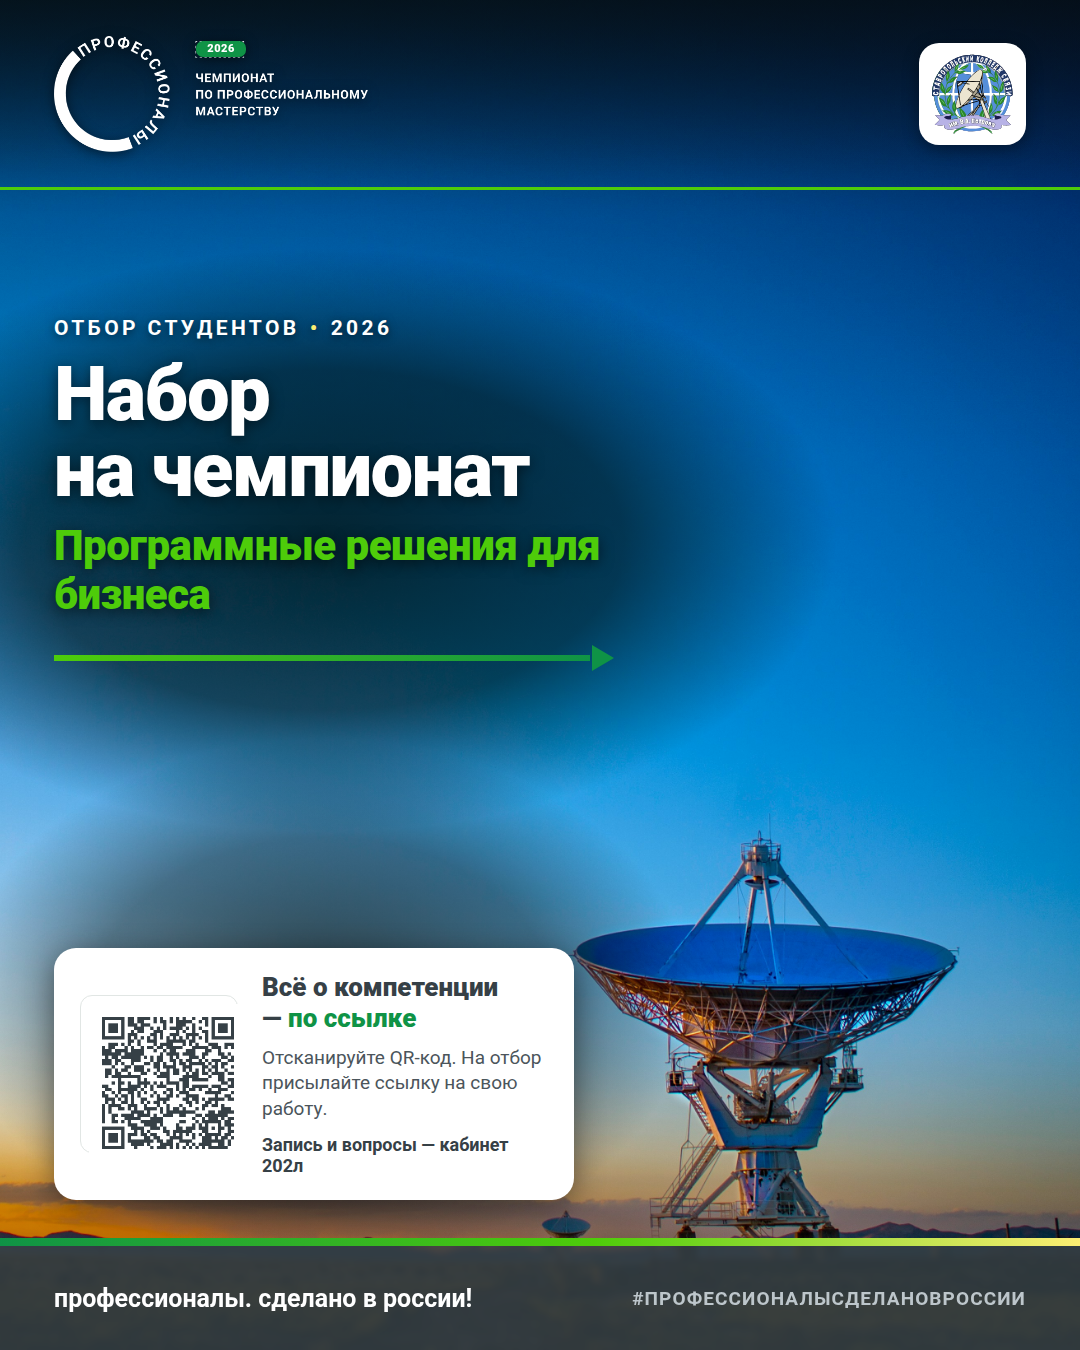
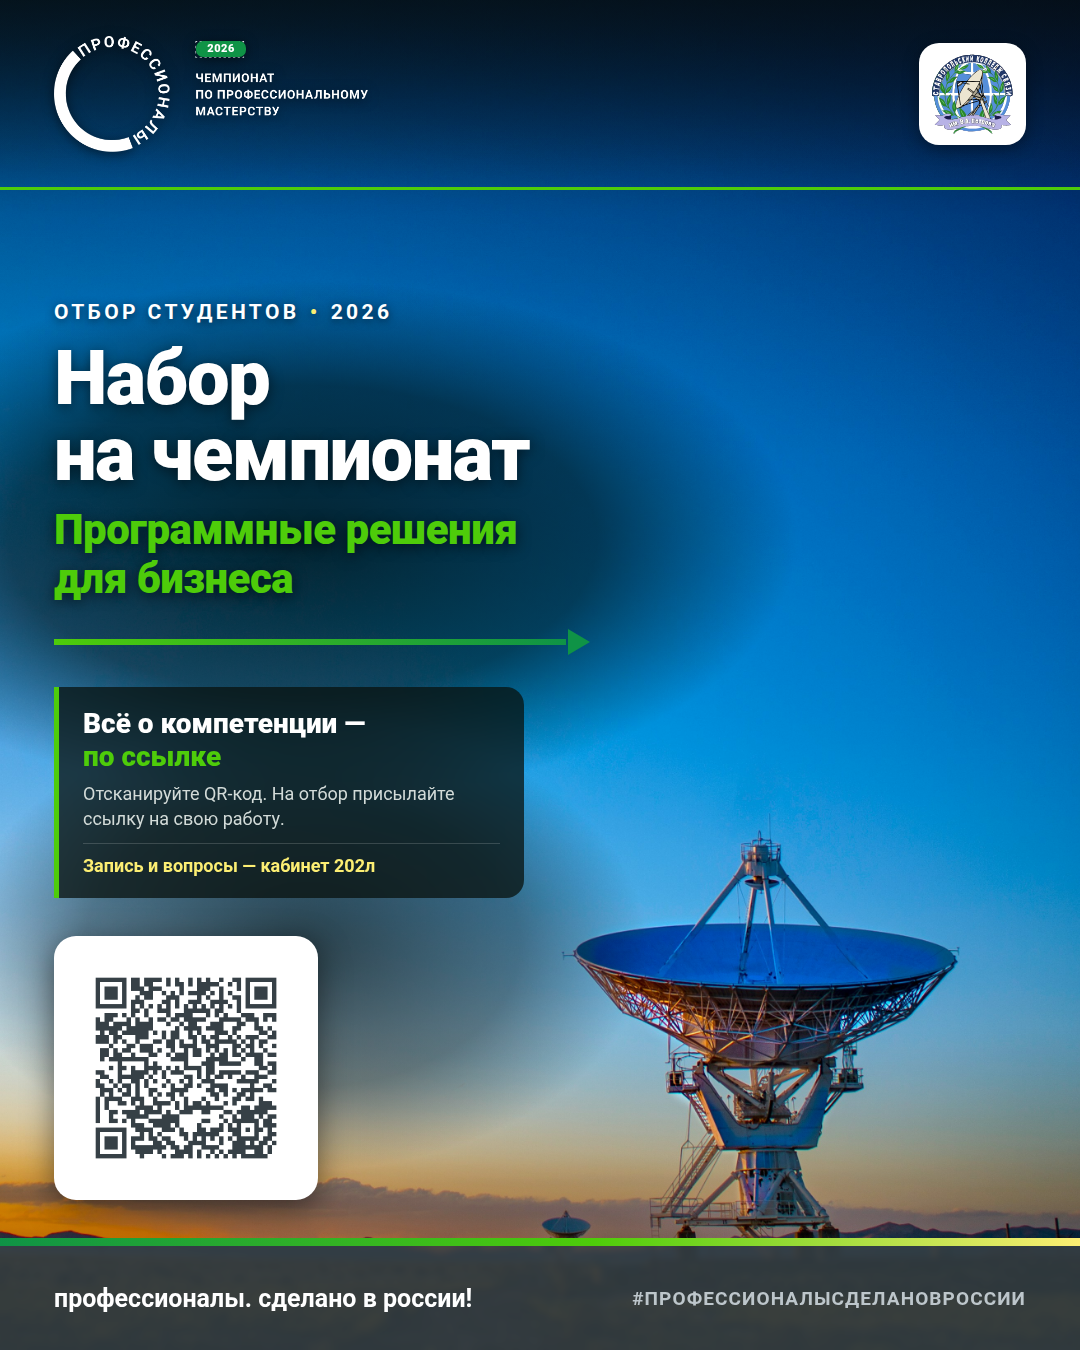
fix(poster): QR-код и текст разнесены по отдельным блокам
Раньше код и подписи лежали в одной белой карточке, а её правый край
наезжал на антенну (та занимает примерно x 560–960).

- QR вынесен в отдельную белую карточку 264x264 с кодом 216 px,
  внизу слева; карточка заканчивается на x 318 — до антенны 240 px
- текст вынесен в отдельную тёмную плашку с зелёной полосой слева:
  заголовок, инструкция и кабинет 202л; плашка заканчивается на x 524
- пятна затемнения подогнаны под новые блоки
- заголовок линейки сужен до 536 px, чтобы стрелка не упиралась
  в текстовый блок
- перенос в заголовке плашки зафиксирован: «Всё о компетенции —» /
  «по ссылке», чтобы «ссылке» не висело на отдельной строке

Changed region(s): [[0.0, 0.1867, 0.7028, 0.9333]]

diff --git a/post/poster.html b/post/poster.html
@@ -62,10 +62,10 @@
   .poster > .fog {
     position: absolute; inset: 0; z-index: 2;
     background:
-      radial-gradient(ellipse 66% 30% at 30% 40%,
-        rgba(4,10,7,.80) 0%, rgba(4,10,7,.62) 42%, rgba(4,10,7,0) 72%),
-      radial-gradient(ellipse 46% 26% at 30% 74%,
-        rgba(4,10,7,.72) 0%, rgba(4,10,7,.44) 46%, rgba(4,10,7,0) 74%);
+      radial-gradient(ellipse 62% 26% at 28% 40%,
+        rgba(4,10,7,.80) 0%, rgba(4,10,7,.60) 44%, rgba(4,10,7,0) 74%),
+      radial-gradient(ellipse 42% 22% at 28% 70%,
+        rgba(4,10,7,.70) 0%, rgba(4,10,7,.42) 48%, rgba(4,10,7,0) 76%);
   }
 
   /* ---------- Полоса логотипов ---------- */
@@ -111,8 +111,8 @@
   /* ---------- Заголовок ---------- */
   .content {
     position: absolute; z-index: 5;
-    left: 54px; top: 316px;
-    width: 560px;
+    left: 54px; top: 300px;
+    width: 536px;
   }
 
   .eyebrow {
@@ -144,31 +144,42 @@
     border-top: 13px solid transparent; border-bottom: 13px solid transparent;
     border-left: 22px solid var(--green); }
 
-  /* ---------- Карточка QR ----------
-     Светлая непрозрачная подложка: код должен читаться идеально. */
+  /* ---------- Блок текста: отдельная тёмная плашка ----------
+     Намеренно не на белом: так QR и текст читаются как два разных
+     объекта, а тёмная подложка не спорит с белой карточкой кода. */
+  .textblock {
+    position: absolute; z-index: 5;
+    left: 54px; bottom: 452px;
+    width: 470px;
+    background: rgba(8, 16, 12, .74);
+    backdrop-filter: blur(6px);
+    border-left: 5px solid var(--green-lite);
+    border-radius: 0 18px 18px 0;
+    padding: 20px 24px 22px;
+  }
+  .textblock h3 { font-size: 28px; font-weight: 900; line-height: 1.18; color: var(--white); white-space: nowrap; }
+  .textblock h3 em { font-style: normal; color: var(--green-lite); }
+  .textblock p { margin-top: 9px; font-size: 18px; line-height: 1.36; font-weight: 400; color: #D3DBD8; }
+  .textblock .contact {
+    margin-top: 12px; padding-top: 11px;
+    border-top: 1px solid rgba(255,255,255,.16);
+    font-size: 18px; font-weight: 700; color: var(--yellow);
+  }
+
+  /* ---------- Блок QR: отдельная белая карточка ----------
+     Сдвинут влево и вниз от антенны: та занимает примерно
+     x 560–960, y 800–1270, карточка заканчивается на x 318. */
   .qrblock {
     position: absolute; z-index: 5;
     left: 54px; bottom: 150px;
-    width: 520px;
-    display: flex; align-items: center; gap: 24px;
+    width: 264px; height: 264px;
     background: var(--white);
     border-radius: 22px;
-    padding: 24px 26px;
-    box-shadow: 0 8px 30px rgba(0,0,0,.45);
+    padding: 24px;
+    box-shadow: 0 8px 30px rgba(0,0,0,.5);
+    display: flex; align-items: center; justify-content: center;
   }
-  .qrblock .qr {
-    flex: 0 0 auto;
-    width: 158px; height: 158px;
-    border: 1px solid #E1E6E4;
-    border-radius: 12px;
-    padding: 8px;
-  }
-  .qrblock .qr img { width: 158px; height: 158px; display: block; }
-  .qrtxt h3 { font-size: 26px; font-weight: 900; color: var(--dark); line-height: 1.2;
-    text-wrap: balance; }
-  .qrtxt h3 em { font-style: normal; color: var(--green); }
-  .qrtxt p { font-size: 19px; line-height: 1.36; font-weight: 400; color: #4b555b; margin-top: 10px; }
-  .qrtxt .contact { font-size: 18px; font-weight: 700; color: var(--dark); margin-top: 12px; }
+  .qrblock img { width: 216px; height: 216px; display: block; }
 
   /* ---------- Подвал ---------- */
   .footer {
@@ -216,13 +227,14 @@
     <div class="rule"><div class="bar"></div><div class="arrow"></div></div>
   </div>
 
+  <div class="textblock">
+    <h3>Всё о компетенции —<br><em>по ссылке</em></h3>
+    <p>Отсканируйте QR-код. На отбор присылайте ссылку на свою работу.</p>
+    <div class="contact">Запись и вопросы — кабинет 202л</div>
+  </div>
+
   <div class="qrblock">
-    <div class="qr"><img src="../assets/qr_repo.png" alt="QR-код на условия отбора"></div>
-    <div class="qrtxt">
-      <h3>Всё о компетенции — <em>по ссылке</em></h3>
-      <p>Отсканируйте QR-код. На отбор присылайте ссылку на свою работу.</p>
-      <div class="contact">Запись и вопросы — кабинет 202л</div>
-    </div>
+    <img src="../assets/qr_repo.png" alt="QR-код на условия отбора">
   </div>
 
   <div class="footer">
